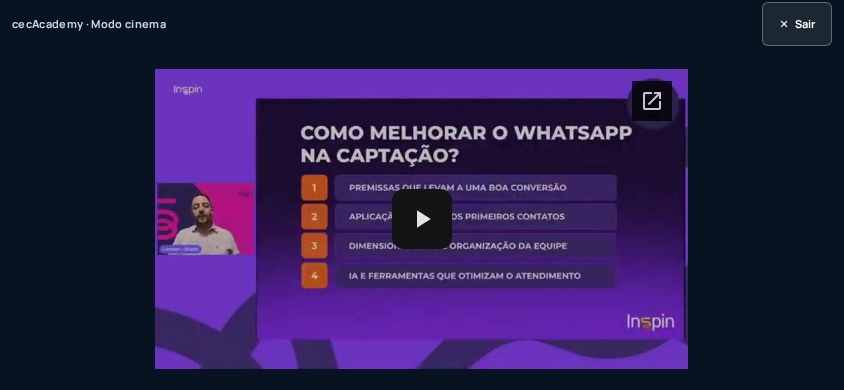
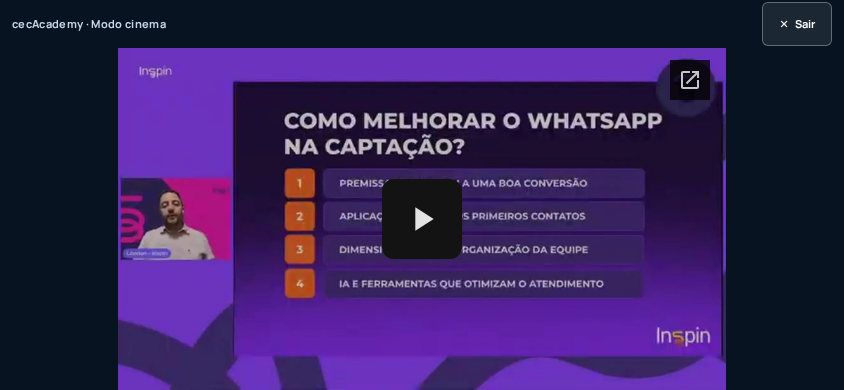
Add files via upload
Melhorias mobile , tentativa de ajeitar o play e barra de progresso do vídeo.

diff --git a/public/assets/style.css b/public/assets/style.css
@@ -18,7 +18,7 @@
  .player-wrap.cinema-on,.player-wrap:fullscreen{position:fixed;inset:0;z-index:9999;width:100vw;max-width:none;height:100vh;height:100dvh;aspect-ratio:auto;border-radius:0;background:#071321;display:flex;flex-direction:column;padding:env(safe-area-inset-top) env(safe-area-inset-right) env(safe-area-inset-bottom) env(safe-area-inset-left)}
  .player-wrap.cinema-on .cinema-toolbar{display:flex;flex:none;align-items:center;justify-content:space-between;min-height:48px;padding:0 12px;color:#c9d7e8;font-size:11px;font-weight:700;letter-spacing:.03em}
  .cinema-toolbar button{border:1px solid #ffffff50;border-radius:6px;padding:0 14px;min-width:70px;min-height:44px;color:white;background:#ffffff16}
- .player-wrap.cinema-on iframe{position:relative;inset:auto;display:block;flex:none;width:min(100%,calc((100dvh - 90px - env(safe-area-inset-top) - env(safe-area-inset-bottom))*16/9));height:auto;aspect-ratio:16/9;margin:auto}
+ .player-wrap.cinema-on iframe{position:relative;inset:auto;display:block;flex:none;width:min(100%,calc((100dvh - var(--cinema-reserve, 90px) - env(safe-area-inset-top) - env(safe-area-inset-bottom))*16/9));height:auto;aspect-ratio:16/9;margin:auto}
  .player-wrap.cinema-on .cinema-hint{display:block;flex:none;text-align:center;color:#c9d7e8;font-size:10px;margin:5px 0 9px}
  .player-wrap.cinema-on .player-loading{top:48px;bottom:26px;pointer-events:none}
-@media(orientation:landscape){.player-wrap.cinema-on .cinema-hint{display:none}}
+@media(orientation:landscape){.player-wrap.cinema-on{--cinema-reserve:48px}.player-wrap.cinema-on .cinema-hint{display:none}}

diff --git a/RELATORIO_CONTROLES_MOBILE.md b/RELATORIO_CONTROLES_MOBILE.md
@@ -1,0 +1,38 @@
+# Relatório — controles do modo cinema mobile
+
+## Diagnóstico e limites
+O vídeo usa `drive.google.com/file/d/ID/preview`, um iframe de outra origem. Os controles do interior (play, barra, tempo, volume, velocidade e ícones) são fornecidos pelo Google. O botão de sair, a moldura cinema e os botões de cinema/recarregar na página são do CECAcademy. O JavaScript e o CSS da aplicação não podem acessar, reposicionar, ocultar ou controlar os elementos internos do iframe: a política de mesma origem impede esse acesso. O Playwright consegue inspecionar frames para testes, mas isso não é capacidade do JavaScript da aplicação publicada.
+
+No Chromium headless com viewport mobile e aula real, o Drive ofereceu controles próprios de play/pause e avançar/retroceder **10 segundos**, não 15. Encontramos seletor nativo `Seek slider`. Na tentativa em paisagem 844×390 a área medida desse seletor ficou parcialmente fora da tela; o clique no meio dessa área não avançou o vídeo e arrastar mudou o tempo de 6,34 para 12,85 segundos. Esses resultados são específicos do navegador emulado, mas confirmam que não se pode declarar a timeline confiável. Uma tentativa de retomar pelo botão nativo também ficou interceptada por outro elemento na automação; clicar no centro não retomou nessa execução. Não é possível atribuir conclusivamente o problema observado no telefone físico a essa mesma causa.
+
+## Alteração realizada
+Somente `public/assets/style.css`: no cinema horizontal, o iframe pode ocupar a altura disponível menos a barra de saída, com 16:9 e áreas seguras preservadas. Na emulação 844×390 o vídeo passou de 533×300 para 608×342, centralizado. A mudança não modifica a página inicial, navegação, player desktop ou a interface interna do Google. Imagens e medições em `evidencias-controles/`. O ZIP anterior é o ponto de restauração.
+
+## Mantidos e não implementados
+Preservados Google Drive, player, controles nativos, botão de recarregar e botão sair. Nenhum botão nativo foi removido ou ocultado. **Não foram criados controles de ±15 s, nem barra/play/pause externos**, pois não há API para sincronizá-los/controlá-los no iframe. Os controles redundantes internos não podem ser removidos pelo CECAcademy com esta integração. Para controlar verdadeiramente e desenhar a interface solicitada seria necessário trocar a forma de entregar a mídia, por exemplo um player HTML5 com um endpoint seguro de streaming Drive, validando sessão, permissões, faixa HTTP e vídeo real; é mudança de arquitetura e não foi implementada nem validada aqui.
+
+## Testes
+Testes automatizados Chromium em desktop com emulação mobile; sessão e catálogo simulados, mídia e iframe reais. Sem aparelho físico, Chrome Android real, Samsung Internet ou Safari iOS.
+
+| Teste | Resultado | Evidência/limite |
+|---|---|---|
+| Abrir aula real em emulação | APROVADO | iframe real e vídeo disponível |
+| Iniciar reprodução | APROVADO | vídeo real avançou após interação |
+| Pausar | APROVADO | botão nativo em teste direto: paused=true em 6,34 s |
+| Retomar | REPROVADO | automação não conseguiu retomar por botão nem toque central nessa execução |
+| Retroceder 15 s | NÃO TESTADO | controle de 15 s indisponível na integração |
+| Avançar 15 s | NÃO TESTADO | controle de 15 s indisponível na integração |
+| Tocar na barra para buscar | REPROVADO | clique na área medida não alterou o tempo em execução direta |
+| Arrastar indicador | REPROVADO | houve alteração de tempo, mas área medida estava parcialmente fora da tela e navegação confiável não foi comprovada |
+| Sincronização de tempo e duração | NÃO TESTADO | duração interna obtida, apresentação visual não validada |
+| Botão de recarregar | NÃO TESTADO | botão acionado e um iframe permaneceu; recarregamento real não foi comprovado |
+| Entrar/sair e continuidade | APROVADO | mesmo vídeo avançou 2,31 s ao sair e 2,95 s ao voltar em execução emulada |
+| Retrato | APROVADO | wrapper e saída visíveis em 390×844; usabilidade total dos controles não validada |
+| Paisagem | APROVADO | fallback em 844×390, 608×342; controles nativos não validados integralmente |
+| Toque, dispositivo físico e navegadores mobile reais | NÃO TESTADO | não há aparelho físico disponível |
+| Desktop inalterado | NÃO TESTADO | regra alterada só afeta modo cinema ativo horizontal; comparação completa não executada |
+| Navegação entre aulas | APROVADO | URL do iframe mudou e apenas um iframe permaneceu com catálogo simulado |
+| Outros recursos | NÃO TESTADO | regressão abrangente não executada |
+
+## Conclusão
+A melhoria aumenta o espaço do vídeo horizontal, mas não entrega todos os controles solicitados. **Não há garantia de timeline funcional, de retomada ou de ±15 segundos**. Não é adequado declarar o trabalho completo ou pronto para uso confiável com base nesses testes. Preservar o iframe impede resolver esses requisitos pela aplicação; a troca para player HTML5 só deve ser adotada após implementar e validar streaming real seguro em ambiente autorizado.
